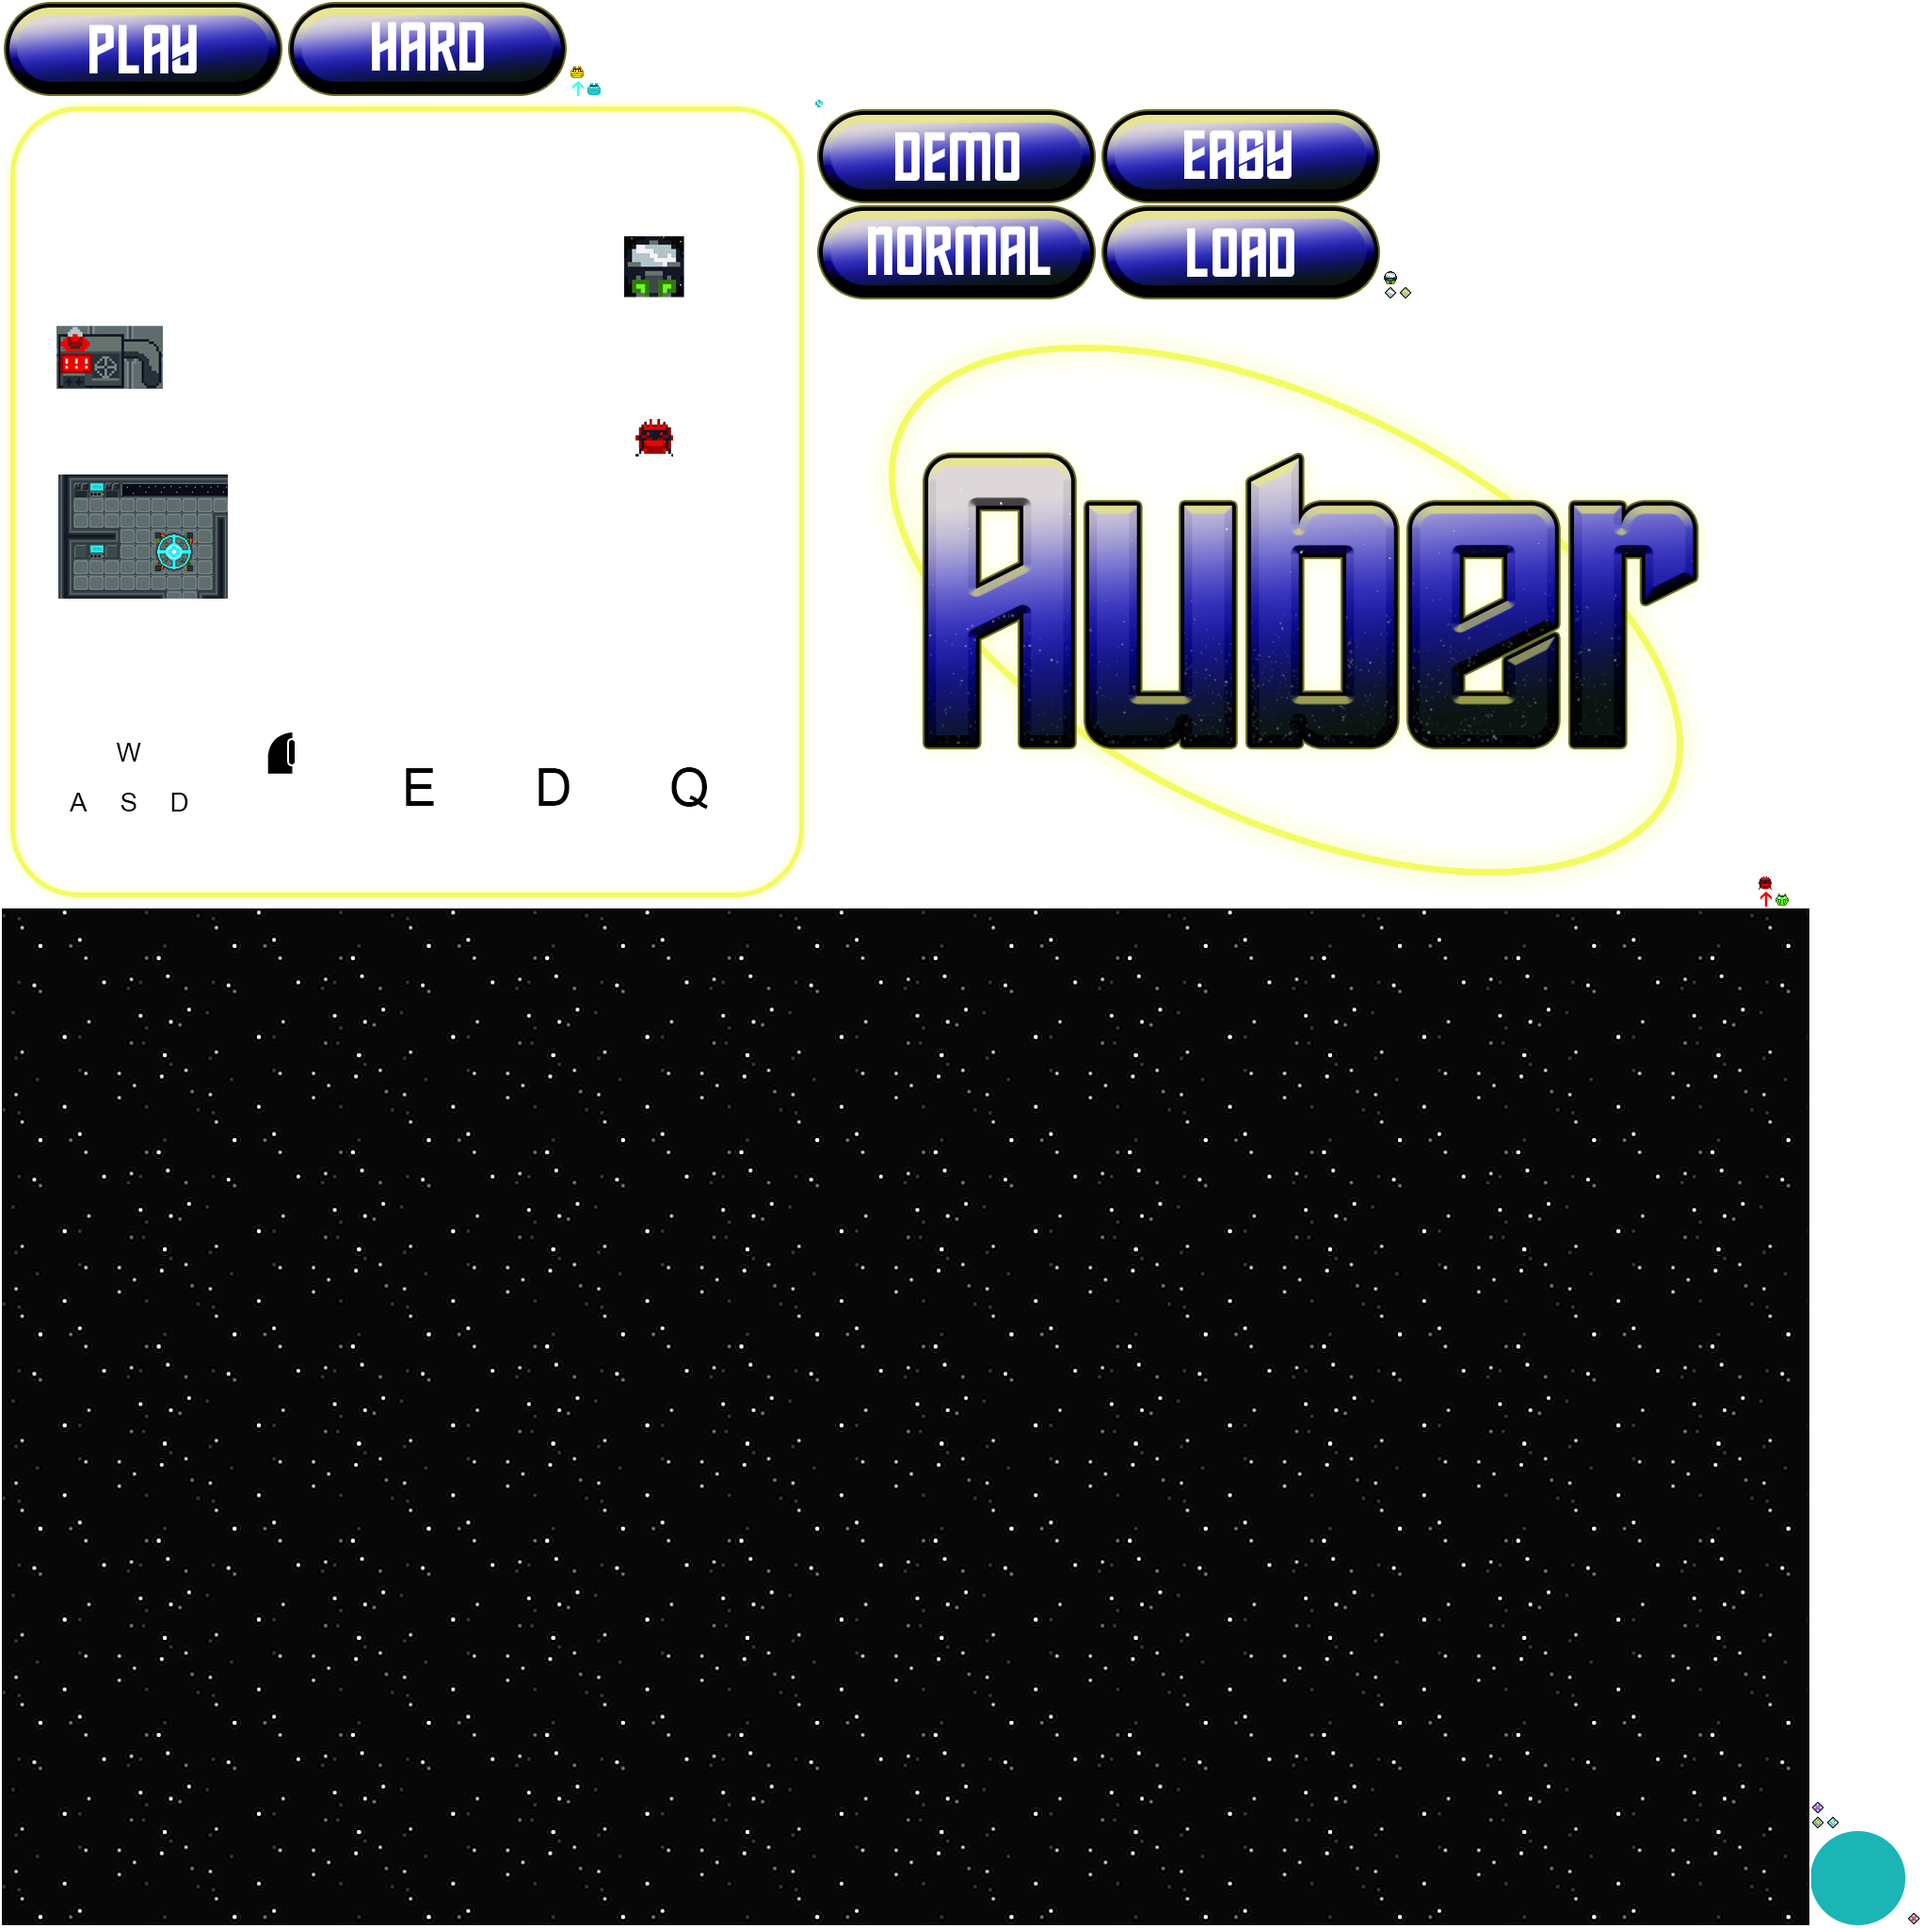
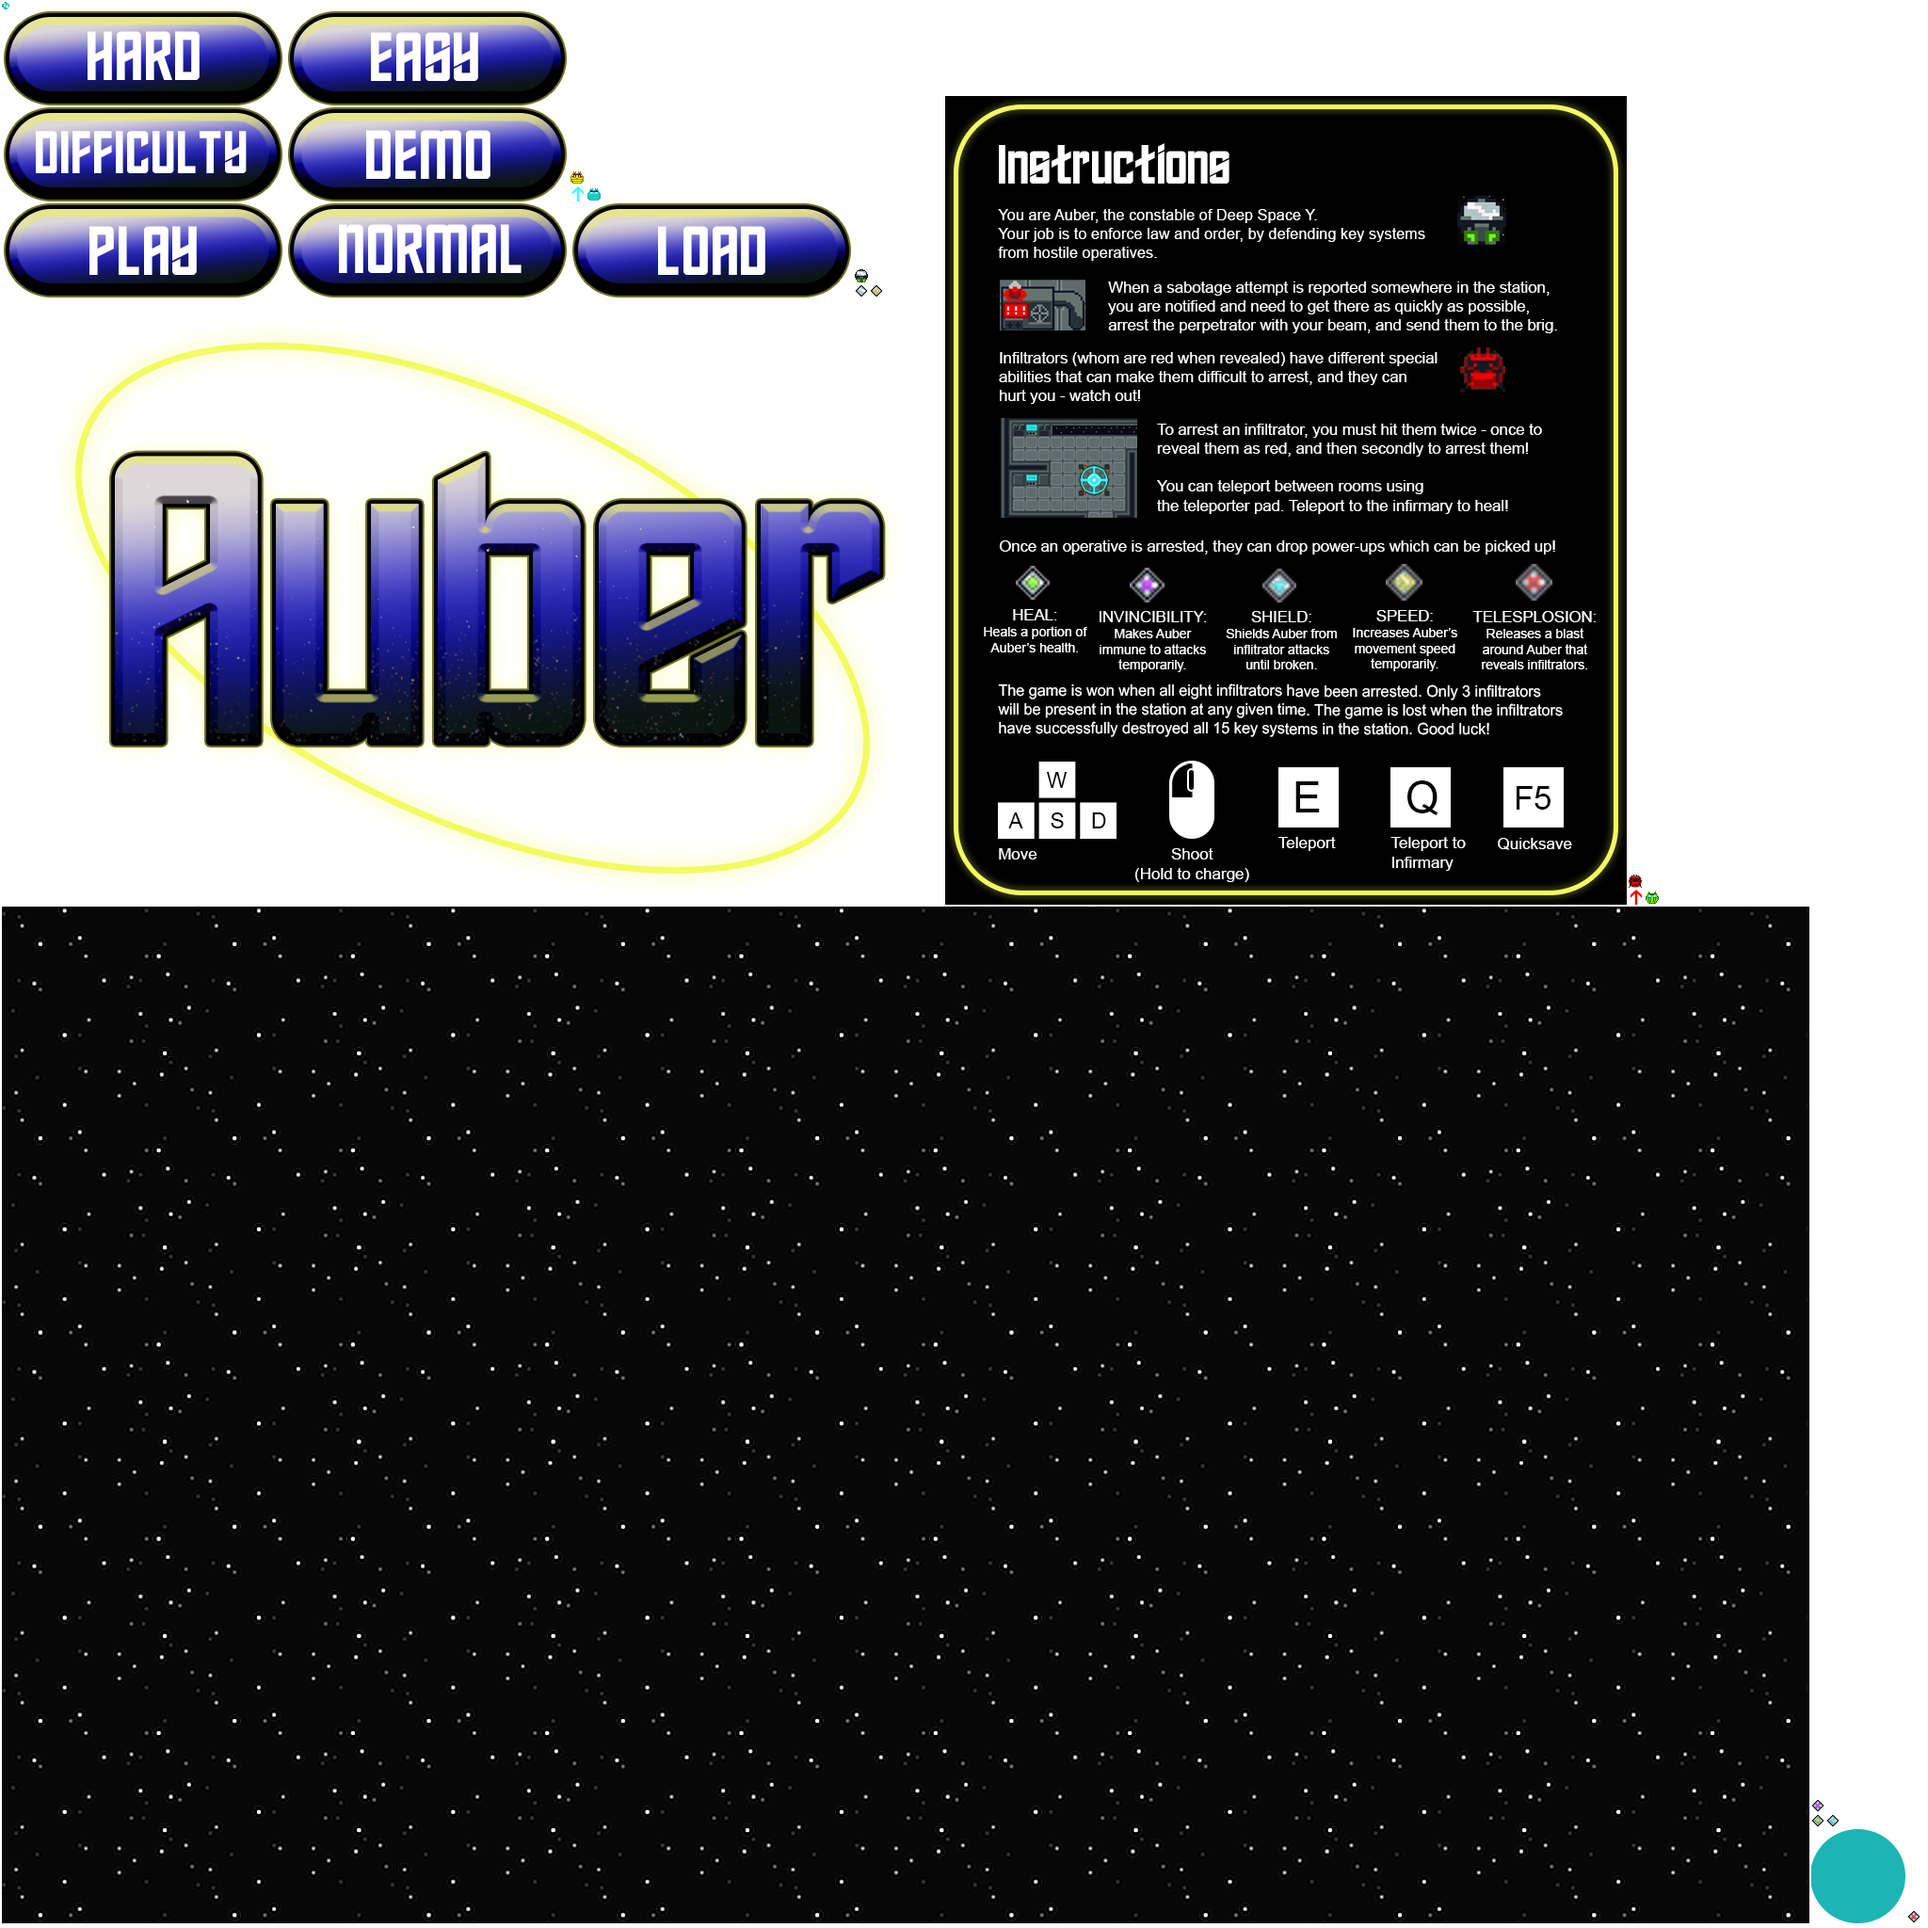
updated UI

Changed region(s): [[0.0, 0.0, 0.9062, 0.4688], [0.9375, 0.9375, 0.9688, 0.9688]]

diff --git a/core/src/main/com/threecubed/auber/screens/MenuScreen.java b/core/src/main/com/threecubed/auber/screens/MenuScreen.java
@@ -125,7 +125,7 @@ public class MenuScreen extends ScreenAdapter {
     world.changeDifficulty("normal");
     difficultyButton = new Button(
       new Vector2(Gdx.graphics.getWidth() / 4, Gdx.graphics.getHeight() / 2 - 65f),
-      1f, game.atlas.createSprite("diffNormalButton"), game, onDifficultyClick);
+      1f, game.atlas.createSprite("diffButton"), game, onDifficultyClick);
 
     Runnable onLoadClick = new Runnable() {
       @Override
